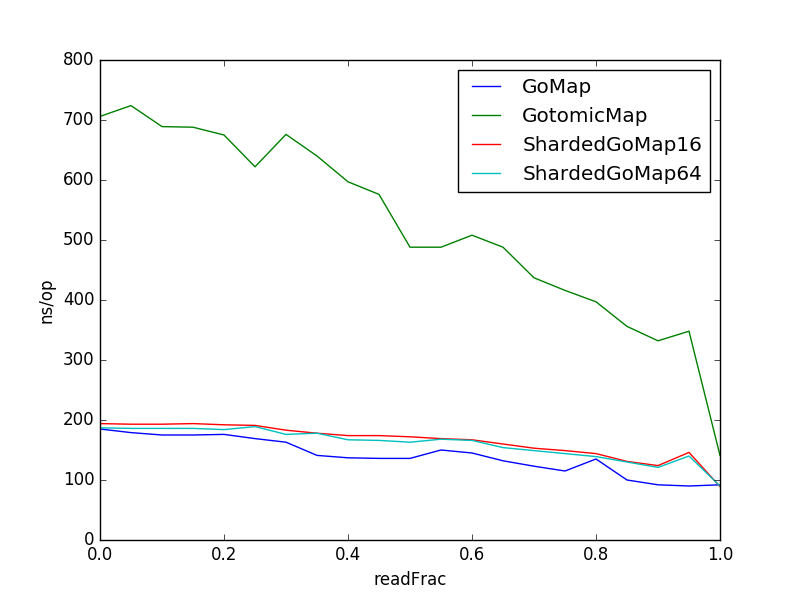
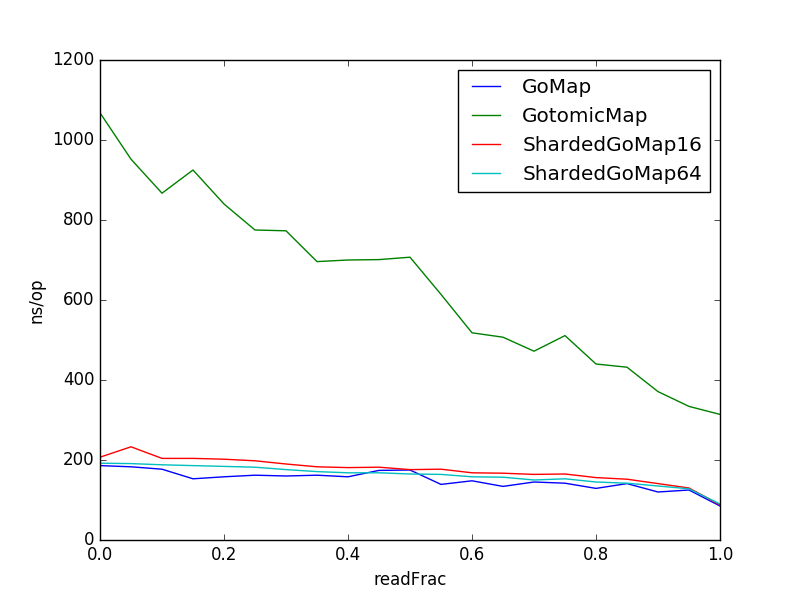
Update

diff --git a/jchiu/benchhash2/benchhash_test.go b/jchiu/benchhash2/benchhash_test.go
@@ -15,9 +15,7 @@ var (
 	experiments = []experiment{
 		experiment{"GoMap", NewGoMap},
 		experiment{"GotomicMap", NewGotomicMap},
-		experiment{"ShardedGoMap8", NewShardedGoMap8},
-		experiment{"ShardedGoMap16", NewShardedGoMap16},
-		experiment{"ShardedGoMap32", NewShardedGoMap32},
+		experiment{"ShardedGoMap16", NewShardedGoMap8},
 		experiment{"ShardedGoMap64", NewShardedGoMap64},
 	}
 )
@@ -39,23 +37,20 @@ func BenchmarkWriteControl(b *testing.B) {
 	})
 }
 
-func benchmarkReadWriteControl(b *testing.B, readFrac float32) {
-	b.RunParallel(func(pb *testing.PB) {
-		for pb.Next() {
-			if rand.Float32() < readFrac {
-				rand.Uint32()
-			} else {
-				rand.Uint32()
-				rand.Uint32()
-			}
-		}
-	})
-}
-
 func BenchmarkReadWriteControl(b *testing.B) {
 	for i := 0; i <= 20; i++ {
+		readFrac := float32(i) / 20
 		b.Run(strconv.Itoa(i), func(b *testing.B) {
-			benchmarkReadWriteControl(b, float32(i)/20)
+			b.RunParallel(func(pb *testing.PB) {
+				for pb.Next() {
+					if rand.Float32() < readFrac {
+						rand.Uint32()
+					} else {
+						rand.Uint32()
+						rand.Uint32()
+					}
+				}
+			})
 		})
 	}
 }

diff --git a/jchiu/benchhash2/plot.py b/jchiu/benchhash2/plot.py
@@ -26,4 +26,4 @@ for mapType in ('GoMap', 'GotomicMap', 'ShardedGoMap16', 'ShardedGoMap64'):
 	plt.xlabel('readFrac')
 
 plt.legend()
-plt.show()
+plt.savefig('plot.png')

diff --git a/jchiu/benchhash2/README.md b/jchiu/benchhash2/README.md
@@ -12,7 +12,7 @@ Here is what each setup is trying to measure.
 To run the test, do
 
 ```
-go test -bench=. | tee results.txt
+go test -timeout 100m -benchtime 5s -bench=. | tee results.txt
 ```
 
 # Sample results
